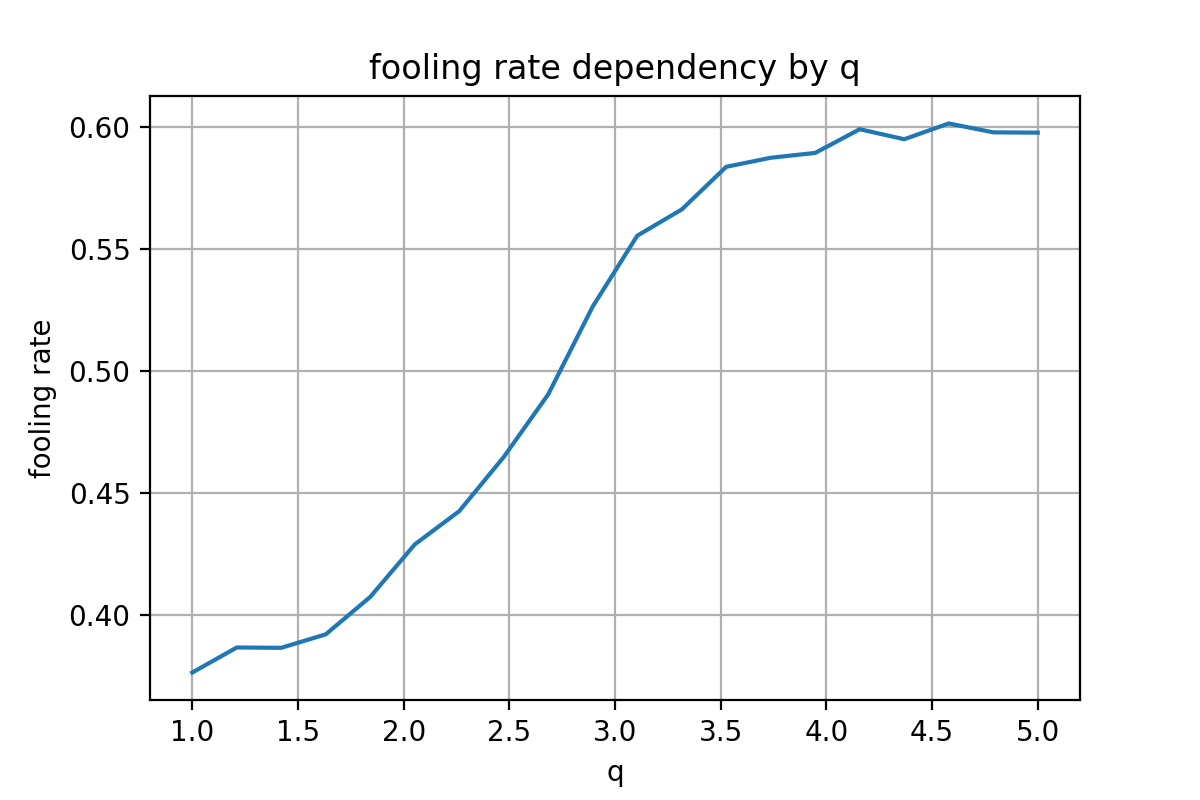
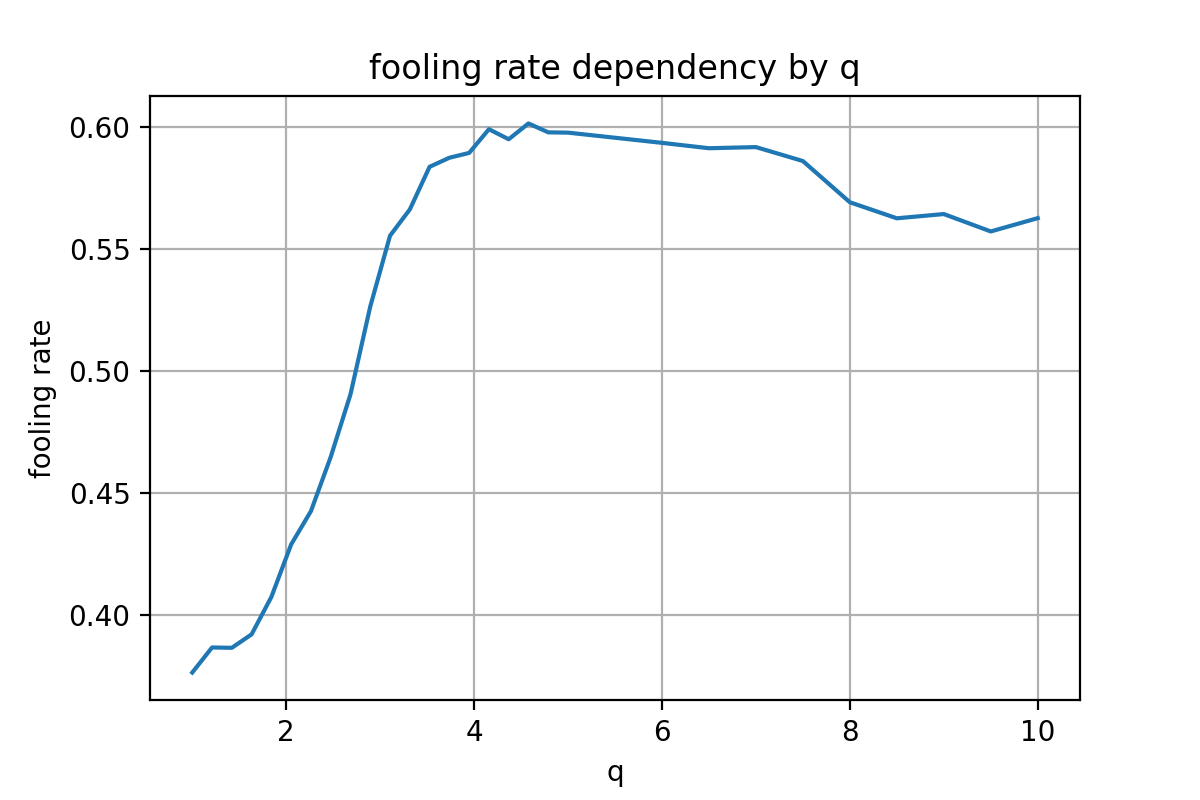
upd

diff --git a/exp_q_parameter.py b/exp_q_parameter.py
@@ -29,7 +29,7 @@ EXP_PATH = 'exps_results/q_parameter_exp'
 BATCH_SIZE = 64
 LAYER_FOR_EXTRACTION_NUM = 9  # block2_pool
 DEVICE = torch.device('cuda') if torch.cuda.is_available() else torch.device('cpu')
-Q_GRID = np.linspace(1, 5, num=20)
+Q_GRID = list(np.linspace(1, 5, 20)) + list(np.linspace(6, 10, num=9))
 
 
 def make_exp():
@@ -87,7 +87,7 @@ def make_exp():
 
     fig, ax = plt.subplots(1, 5, figsize=(13, 13))
     fig.tight_layout()
-    for i, idx in enumerate(range(0, len(Q_GRID), 4)):
+    for i, idx in enumerate(range(0, len(Q_GRID), 7)):
         ax[i].imshow(normalize_image(perturbations[idx]))
         ax[i].set_axis_off()
         ax[i].set_title(f'q={Q_GRID[idx]:.2f}')
